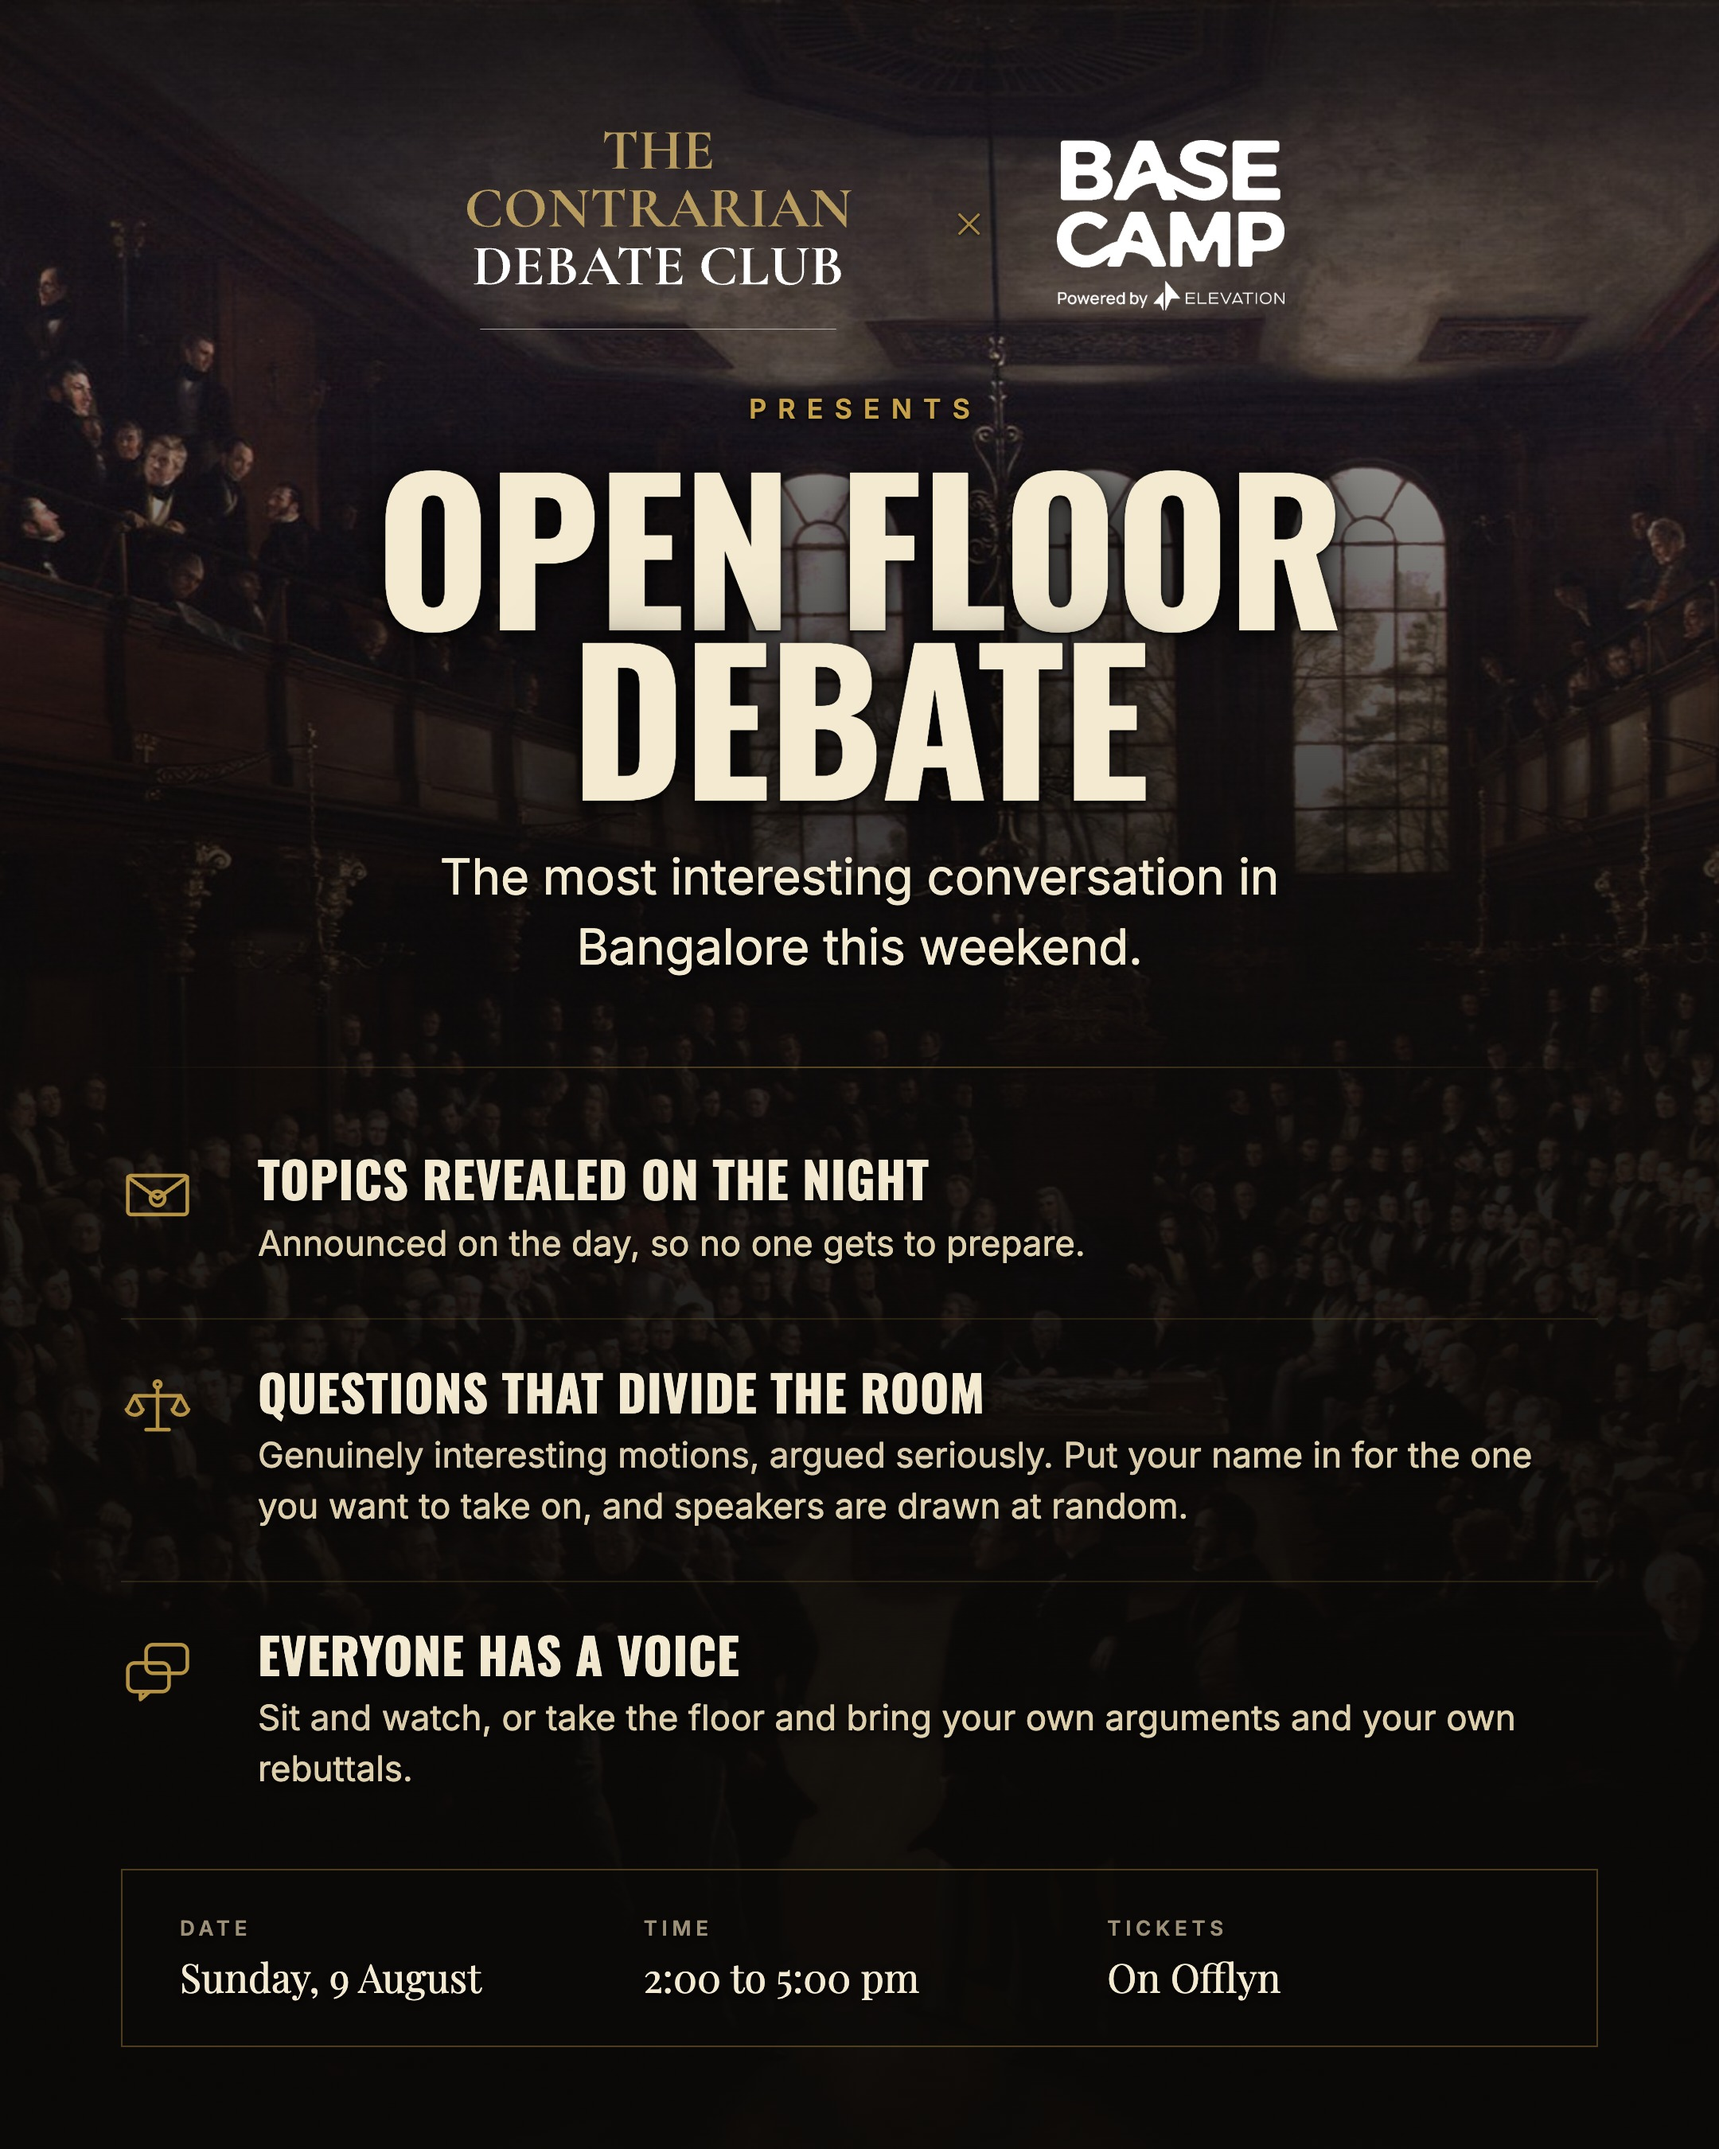
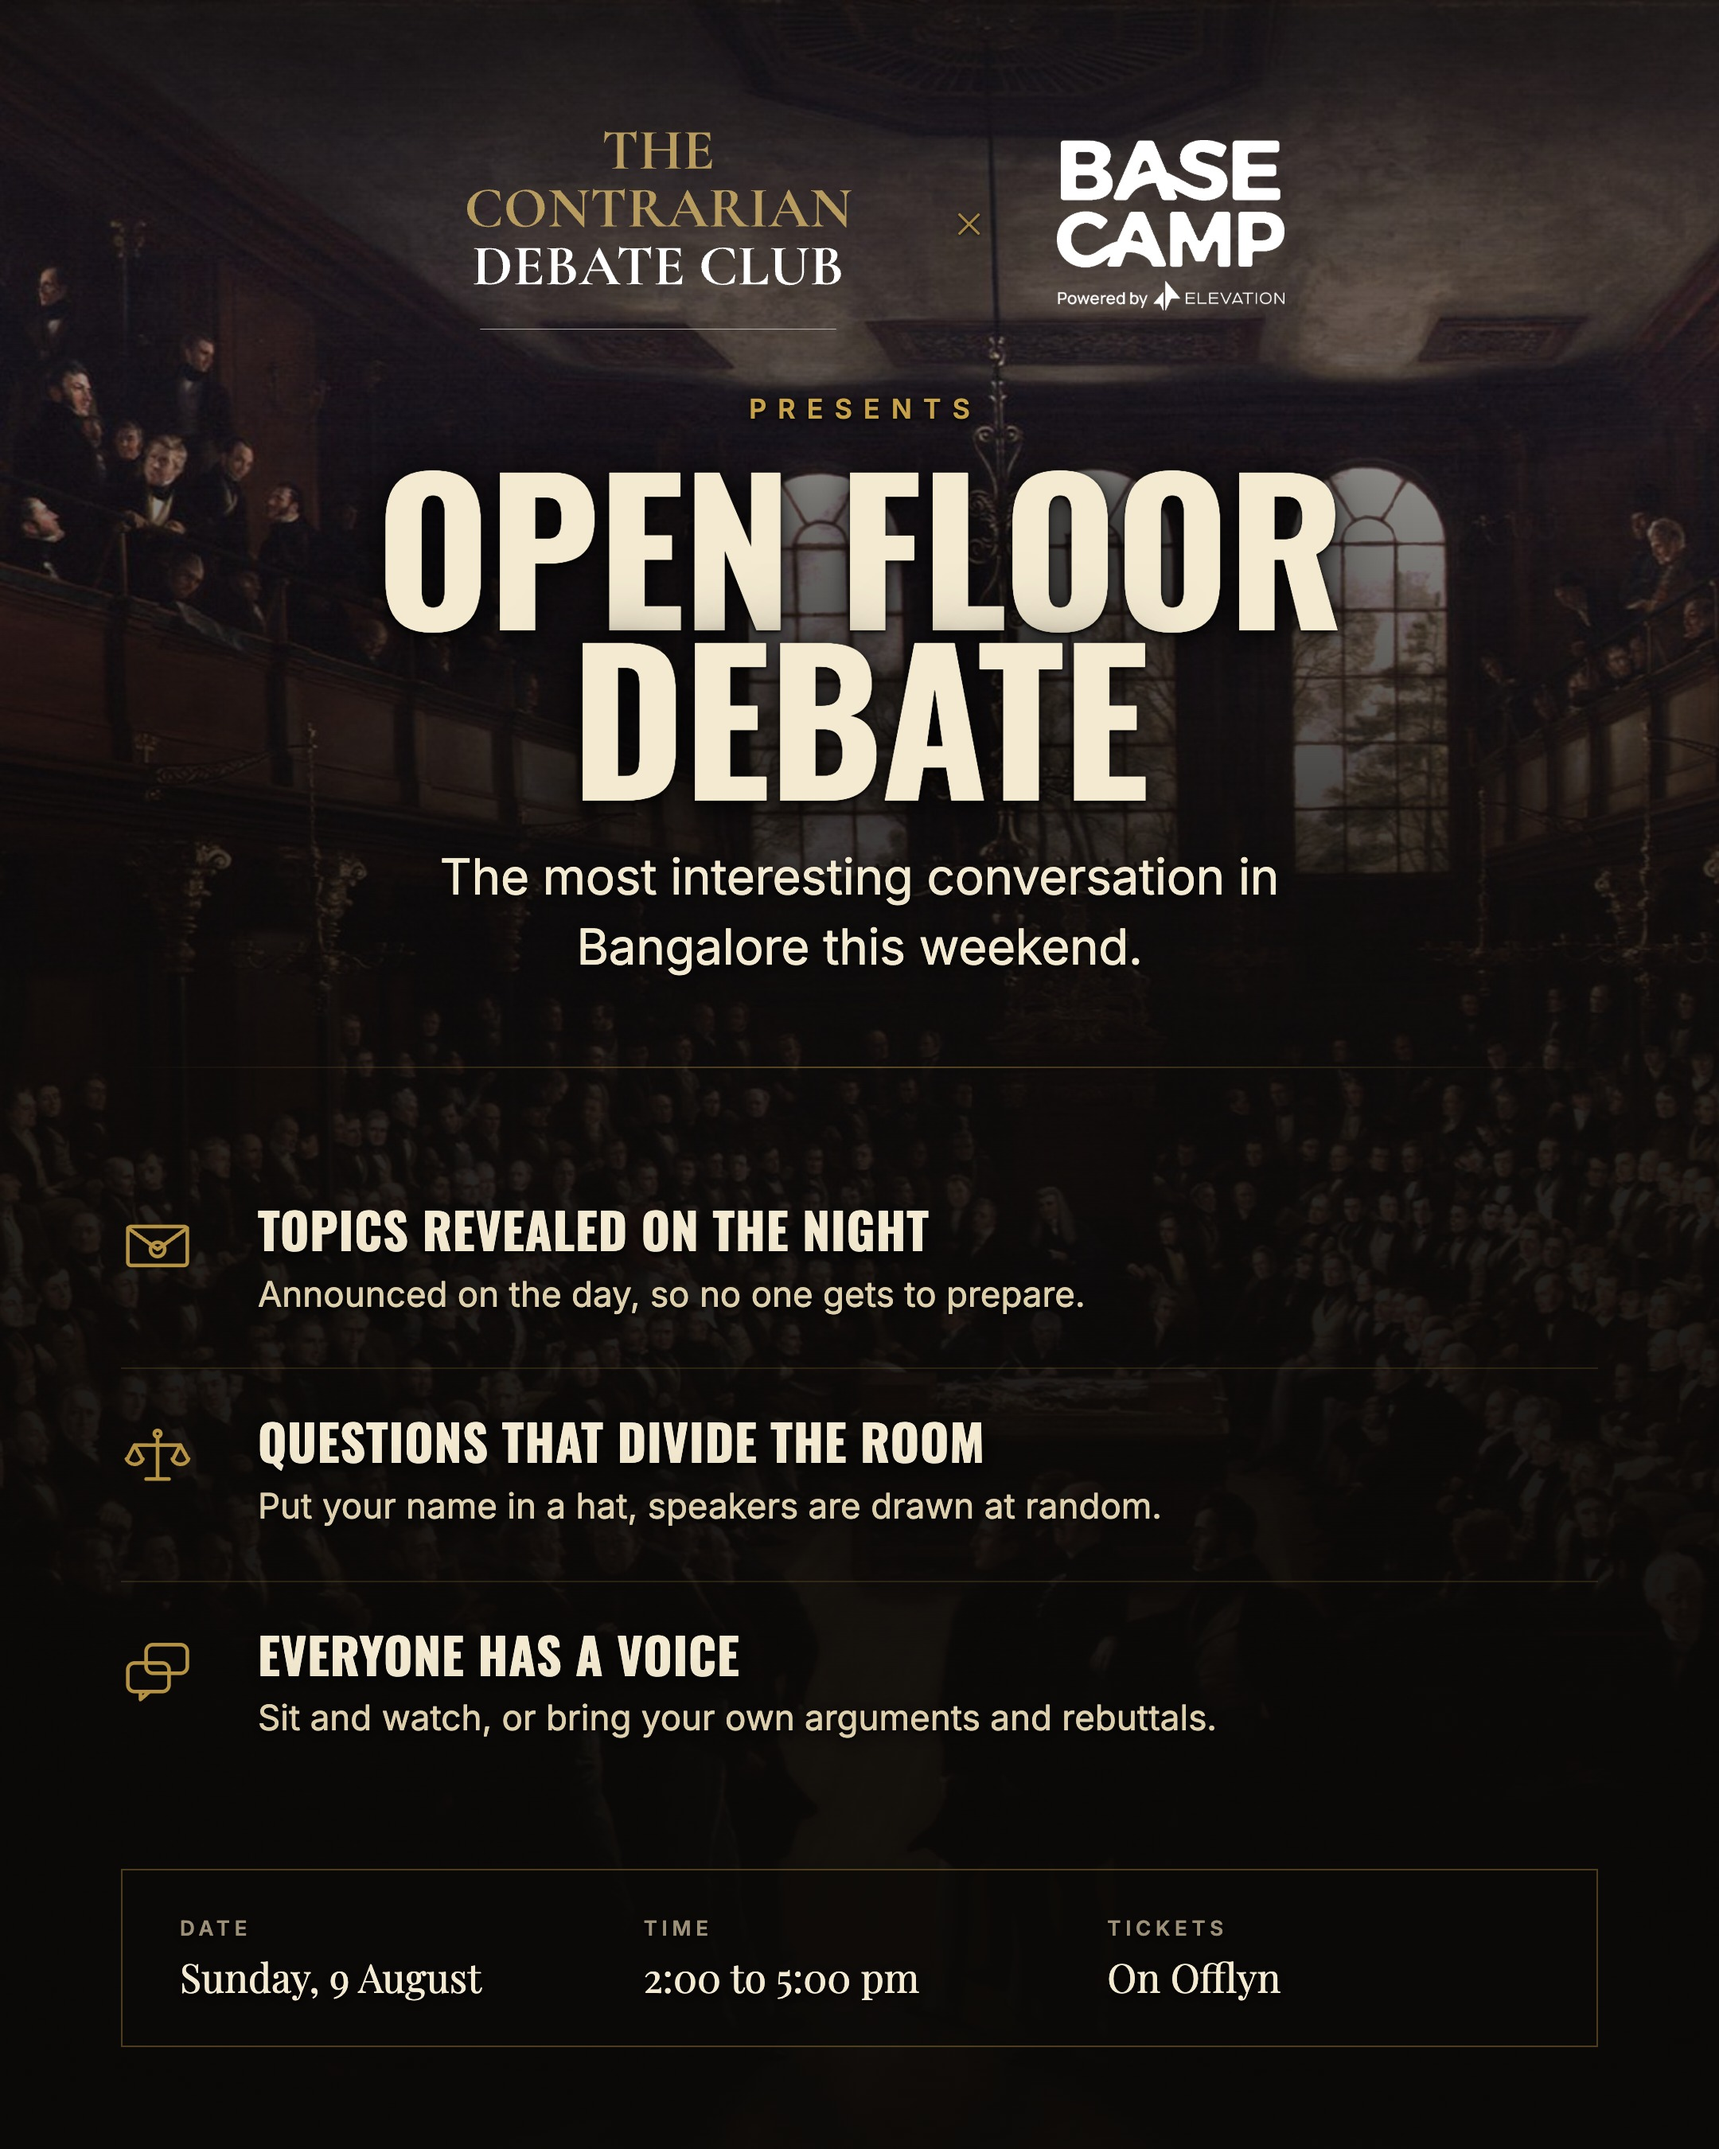
copy(posters): cut the poster's format lines to one line each
Both bodies were carrying two lines of explanation where one does the work.
All three points now sit on a single line, so the block scans as three facts
rather than three paragraphs, and the spacing between them reads as
deliberate.

Trailing periods added to match the first line's punctuation.

diff --git a/posters/works/2026-08-09-open-floor-debate/spec.tsx b/posters/works/2026-08-09-open-floor-debate/spec.tsx
@@ -176,12 +176,12 @@ const work: WorkSpec = {
             {
               icon: "scales",
               label: "Questions that divide the room",
-              body: "Genuinely interesting motions, argued seriously. Put your name in for the one you want to take on, and speakers are drawn at random.",
+              body: "Put your name in a hat, speakers are drawn at random.",
             },
             {
               icon: "voices",
               label: "Everyone has a voice",
-              body: "Sit and watch, or take the floor and bring your own arguments and your own rebuttals.",
+              body: "Sit and watch, or bring your own arguments and rebuttals.",
             },
           ]}
           details={[
